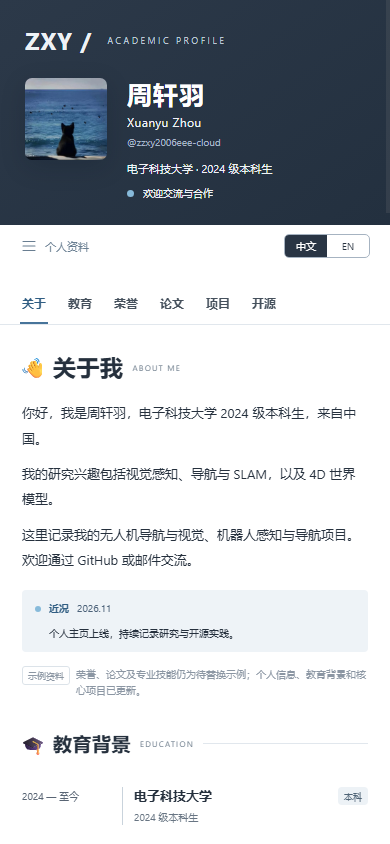
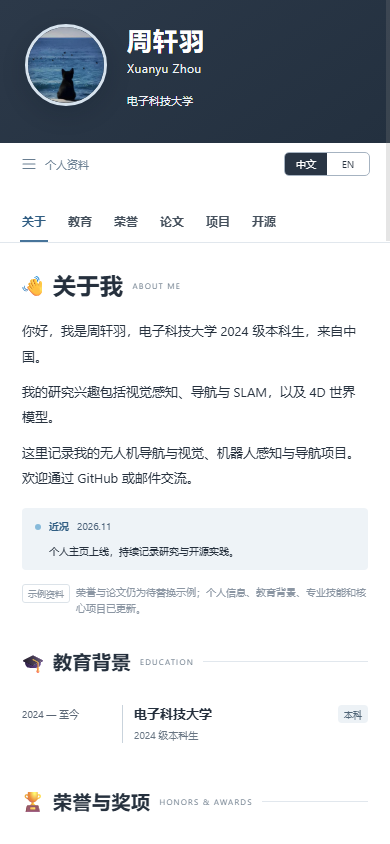
Refine profile sidebar and restore green contribution calendar

diff --git a/src/app.js b/src/app.js
@@ -77,21 +77,19 @@
   }
   function sidebar() {
     const p = data.profile;
-    return `<div class="brand"><strong>${esc(p.initials)} /</strong><span>ACADEMIC PROFILE</span></div><div class="profile-head"><img class="profile-avatar" src="${esc(p.avatar)}" alt="${esc(w("海边黑猫头像", "Black cat looking out at the sea"))}" width="166" height="166"><h2 class="profile-name">${esc(l(p.name))}</h2><div class="romanized">${esc(p.romanized)}</div><div class="handle">${esc(p.handle)}</div><p class="profile-role">${esc(l(p.role))}</p><div class="profile-status"><span class="status-dot"></span>${esc(l(p.status))}</div></div>${sideSection(
+    return `<div class="profile-head"><img class="profile-avatar" src="${esc(p.avatar)}" alt="${esc(w("海边黑猫头像", "Black cat looking out at the sea"))}" width="166" height="166"><h2 class="profile-name">${esc(p.name.zh || l(p.name))}</h2><div class="romanized">${esc(p.romanized)}</div><p class="profile-role">${esc(l(p.institution))}</p></div>${sideSection(
       "基本信息",
       "BASIC INFORMATION",
       `<div class="info-list">${[
         ["cap", l(p.institution)],
-        ["layers", l(p.lab)],
         ["pin", l(p.location)],
-        ["people", p.nationality ? `${w("国籍", "Nationality")}: ${l(p.nationality)}` : ""],
       ]
         .filter((x) => x[1])
         .map(([i, text]) => `<div class="info-row">${icon(i)}<span>${esc(text)}</span></div>`)
         .join(
           "",
-        )}${p.email ? `<div class="info-row">${icon("mail")}<a href="mailto:${esc(p.email)}">${esc(p.email)}</a></div>` : ""}</div><div class="side-actions">${p.cvUrl ? link(p.cvUrl, `${w("下载简历", "Download CV")} ↗`, "side-btn primary") : `<button class="side-btn primary" data-action="print">${w("导出简历", "Export CV")} ↗</button>`}${p.email ? `<a class="side-btn" href="mailto:${esc(p.email)}">${w("联系我", "Contact")} ↗</a>` : link(`https://github.com/${data.githubUsername}`, `${w("联系我", "Contact")} ↗`, "side-btn")}</div><div class="socials">${link(`https://github.com/${data.githubUsername}`, "GitHub ↗")}${p.scholarUrl ? link(p.scholarUrl, "Scholar ↗") : ""}${p.orcidUrl ? link(p.orcidUrl, "ORCID ↗") : ""}</div>`,
-    )}${sideSection("研究方向", "RESEARCH INTERESTS", `<ul class="interests">${data.interests.map((x, i) => `<li>${icon(["layers", "people", "network"][i % 3])}<span>${esc(l(x))}</span></li>`).join("")}</ul>`)}${sideSection("专业技能", "SKILLS", data.skills.map((x, i) => `<div class="skill-group"><div class="skill-title">${icon(i ? "research" : "code")}${esc(l(x.title))}</div><div class="skill-tags">${x.items.map((item) => `<span>${esc(l(item))}</span>`).join("")}</div>`).join(""))}<div class="side-footer"><div>${icon("github")}<span>${w("最近更新", "Updated")} / ${esc(p.updated)}</span></div></div>`;
+        )}${p.email ? `<div class="info-row">${icon("mail")}<a href="mailto:${esc(p.email)}">${esc(p.email)}</a></div>` : ""}<div class="info-row">${icon("github")}${link(`https://github.com/${data.githubUsername}`, esc(data.githubUsername))}</div></div>`,
+    )}${sideSection("研究方向", "RESEARCH INTERESTS", `<ul class="interests">${data.interests.map((x, i) => `<li>${icon(["layers", "people", "network"][i % 3])}<span>${esc(l(x))}</span></li>`).join("")}</ul>`)}${sideSection("专业技能", "SKILLS", data.skills.map((x, i) => `<div class="skill-group">${l(x.title) ? `<div class="skill-title">${icon(i ? "research" : "code")}${esc(l(x.title))}</div>` : ""}<div class="skill-tags">${x.items.map((item) => `<span>${esc(l(item))}</span>`).join("")}</div>`).join(""))}<div class="side-footer"><div>${icon("github")}<span>${w("最近更新", "Updated")} / ${esc(p.updated)}</span></div></div>`;
   }
   function nav() {
     return `<button class="mobile-profile" data-action="profile" aria-expanded="${document.getElementById("sidebar").classList.contains("expanded")}" aria-controls="sidebar">${icon("menu")}${w("个人资料", "Profile")}</button><nav class="nav-links" aria-label="${w("页面导航", "Page navigation")}">${sections.map((s) => `<a href="#${s[0]}" data-section="${s[0]}">${esc(w(s[1], s[2]))}</a>`).join("")}</nav><div class="language-switch" role="group" aria-label="Language">${["zh", "en"].map((code) => `<button data-language="${code}" class="${lang === code ? "active" : ""}" aria-pressed="${lang === code}">${code === "zh" ? "中文" : "EN"}</button>`).join("")}</div>`;

diff --git a/src/styles.css b/src/styles.css
@@ -117,27 +117,12 @@ button {
   flex-direction: column;
   gap: 0;
 }
-.brand {
-  display: flex;
-  align-items: center;
-  gap: 15px;
-  margin-bottom: 34px;
-  white-space: nowrap;
-}
-.brand strong {
-  font-size: 24px;
-  letter-spacing: 1px;
-}
-.brand span {
-  font-size: 9px;
-  letter-spacing: 2.5px;
-  color: #bdc8d5;
-}
 .profile-avatar {
   width: 166px;
   aspect-ratio: 1;
   object-fit: cover;
-  border-radius: 7px;
+  border-radius: 50%;
+  border: 3px solid #d7e3ee;
   box-shadow: 0 7px 24px #07121e2b;
   margin-bottom: 25px;
 }
@@ -158,7 +143,7 @@ button {
   color: #a8b7c8;
 }
 .profile-role {
-  margin: 20px 0 10px;
+  margin: 14px 0 0;
   font-size: 13px;
 }
 .profile-status {
@@ -933,26 +918,26 @@ tbody tr:nth-child(even) {
 .heat-cell {
   padding: 0;
   border-radius: 1px;
-  background: #edf1f5;
+  background: #ebedf0;
   position: relative;
   min-width: 0;
   cursor: default;
 }
 .heat-cell[data-level="1"],
 .legend-cell[data-level="1"] {
-  background: #c5d7e6;
+  background: #9be9a8;
 }
 .heat-cell[data-level="2"],
 .legend-cell[data-level="2"] {
-  background: #91b2cd;
+  background: #40c463;
 }
 .heat-cell[data-level="3"],
 .legend-cell[data-level="3"] {
-  background: #608eaf;
+  background: #30a14e;
 }
 .heat-cell[data-level="4"],
 .legend-cell[data-level="4"] {
-  background: #365f83;
+  background: #216e39;
 }
 .heat-cell.empty {
   visibility: hidden;
@@ -977,7 +962,7 @@ tbody tr:nth-child(even) {
   width: 9px;
   height: 9px;
   border-radius: 2px;
-  background: #edf1f5;
+  background: #ebedf0;
 }
 .legend span:first-child {
   margin-right: 4px;
@@ -1296,7 +1281,7 @@ table {
   }
   .profile-avatar {
     width: 82px;
-    grid-row: 1/6;
+    grid-row: 1/4;
     margin: 0;
   }
   .profile-name {

diff --git a/README.md b/README.md
@@ -60,23 +60,18 @@ node scripts/serve.mjs
 
 | 页面位置 / 想修改的内容 | 对应字段或文件 | 说明 |
 | --- | --- | --- |
-| 左上角 `zZ /` 标识 | `profile.initials` | 简短昵称或姓名缩写 |
 | 头像 | `profile.avatar` + `assets/images/avatar.png` | 同名覆盖图片，或修改图片路径 |
-| 姓名 / 昵称 | `profile.name.zh`、`profile.name.en` | 分别用于中文、英文界面 |
+| 头像下方姓名 | `profile.name.zh` | 侧栏始终展示中文姓名；`profile.name.en` 用于英文页面标题等位置 |
 | 姓名下面一行英文 | `profile.romanized` | 可填写拼音、英文名或个人副标题 |
-| `@用户名` | `profile.handle` | 仅为展示文字，不决定贡献数据来源 |
-| 国籍 | `profile.nationality` | 中英文国籍文字，留空则不显示 |
-| 身份 / 职位 | `profile.role` | 如博士研究生、工程师 |
-| 蓝点旁的交流状态 | `profile.status` | 如“欢迎交流与合作” |
-| 学校、实验室、所在地 | `profile.institution`、`profile.lab`、`profile.location` | 侧栏基本信息 |
-| 邮箱与联系按钮 | `profile.email` | 只填邮箱地址，不加 `mailto:` |
-| 简历下载 | `profile.cvUrl` | PDF 路径或完整网址 |
-| Scholar / ORCID | `profile.scholarUrl`、`profile.orcidUrl` | 留空则不显示对应链接 |
+| 姓名下方学校、基本信息中的学校 | `profile.institution` | 两处共用同一双语字段 |
+| 基本信息中的国家 | `profile.location` | 当前为中国 / China |
+| 基本信息中的邮箱 | `profile.email` | 只填邮箱地址，不加 `mailto:` |
+| 基本信息中的 GitHub 账号名 | `githubUsername` | 同时决定主页链接与贡献数据来源 |
 | 侧栏最近更新日期 | `profile.updated` | 手动维护，例如 `2026-11-09` |
 | 右侧 About Me 正文 | `about[]` | 每一项对应一个段落 |
 | About Me 下方近况 | `news.date`、`news.text` | 日期与一句话近况 |
 | 研究方向 | `interests[]` | 按列表顺序展示 |
-| 专业技能 | `skills[].title`、`skills[].items` | 技能分组标题及标签 |
+| 专业技能 | `skills[].title`、`skills[].items` | 按顺序展示标签；`title` 留空时隐藏分组标题 |
 | 教育背景 | `education[]` | 起止时间、学校、学位、专业 |
 | 荣誉与奖项 | `awards[]` | 奖项、级别 / 授予单位、年份 |
 | 论文成果 | `publications[]` | 标题、作者、发表状态、PDF、代码和引用 |
@@ -102,7 +97,7 @@ node scripts/serve.mjs
 5. 确认示例履历已全部替换或删除，再将顶层 `"demo": true` 改为 `"demo": false`，并更新 `profile.updated`。
 6. 按[修改后的预览与发布](#修改后的预览与发布)检查并推送。
 
-当前个人信息已更新为周轩羽（Xuanyu Zhou），电子科技大学 2024 级本科生，邮箱为 `1285027656@qq.com`。研究方向为视觉感知、导航与 SLAM、4D 世界模型；头像仍是用户提供的海边黑猫。教育背景与两个核心项目已更新，项目分别链接到 `drone-nav-and-vision` 和 `robot_challenge`，介绍依据仓库 README 编写。荣誉、论文与专业技能尚未替换，仍明确标为示例；GitHub 区域使用真实账号数据。
+当前个人信息已更新为周轩羽（Xuanyu Zhou），电子科技大学 2024 级本科生，邮箱为 `1285027656@qq.com`。研究方向为视觉感知、导航与 SLAM、4D 世界模型；头像仍是用户提供的海边黑猫。教育背景与两个核心项目已更新，项目分别链接到 `drone-nav-and-vision` 和 `robot_challenge`，介绍依据仓库 README 编写。专业技能为 Python、PyTorch、C++；荣誉与论文尚未替换，仍明确标为示例；GitHub 区域使用真实账号数据。
 
 ### 配置文件的基本写法
 
@@ -134,10 +129,10 @@ JSON 使用英文双引号；相邻条目之间用英文逗号分隔，最后一
 
 这是部分字段示例，只替换 `profile` 中对应的字段，保留其他字段。
 
-- **更换头像**：直接用新图片覆盖 `assets/images/avatar.png`。如果换成 JPG，例如 `assets/images/my-avatar.jpg`，同时修改 `profile.avatar`。建议使用正方形图片，页面会按方形裁切显示。头像替代文本在 `src/app.js` 的 `sidebar()` 中，目前描述的是黑猫图片；更换内容后可一并修改。
-- **上传简历**：自行创建 `assets/files/`，放入 `cv.pdf`，然后填写 `profile.cvUrl`。留空时按钮调用浏览器打印，可“另存为 PDF”。
-- **邮箱与联系按钮**：填写 `profile.email` 后，邮箱和联系按钮会打开邮件应用；留空时联系按钮跳转至你的 GitHub 主页。
-- **学术链接**：`scholarUrl`、`orcidUrl` 使用完整 `https://...` 地址；留空时对应入口隐藏。
+- **更换头像**：直接用新图片覆盖 `assets/images/avatar.png`。如果换成 JPG，例如 `assets/images/my-avatar.jpg`，同时修改 `profile.avatar`。建议使用正方形图片，页面会按圆形框裁切显示。头像替代文本在 `src/app.js` 的 `sidebar()` 中，目前描述的是黑猫图片；更换内容后可一并修改。
+- **侧栏顺序**：最上方直接显示头像，下方依次为中文姓名、英文姓名、学校；基本信息依次为学校、国家、邮箱、GitHub 账号名，之后是研究方向和专业技能。
+- **邮箱**：填写 `profile.email` 后，点击邮箱会打开邮件应用。
+- **保留字段**：`initials`、`handle`、`role`、`status`、`lab`、`nationality`、`cvUrl`、`scholarUrl`、`orcidUrl` 暂不在精简侧栏显示。需要恢复额外入口时修改 `src/app.js` 的 `sidebar()`；仍可用浏览器打印功能导出 PDF。
 - **日期**：`profile.updated` 是你维护资料的日期，不会自动改变；热力图下方的同步时间由程序单独更新。
 
 ### About Me、近况、研究方向与技能
@@ -166,8 +161,8 @@ JSON 使用英文双引号；相邻条目之间用英文逗号分隔，最后一
 
 ```json
 {
-  "title": { "zh": "编程与工程", "en": "Programming & engineering" },
-  "items": ["Python", "TypeScript", "PyTorch"]
+  "title": "",
+  "items": ["Python", "PyTorch", "C++"]
 }
 ```
 
@@ -254,7 +249,7 @@ JSON 使用英文双引号；相邻条目之间用英文逗号分隔，最后一
 
 ### GitHub 贡献与热力图
 
-`githubUsername` 决定贡献数据来源、侧栏 GitHub 链接和“全部仓库”入口。`profile.handle` 只是展示文字，改它不会更换数据账号。
+`githubUsername` 决定贡献数据来源、侧栏 GitHub 账号名与链接和“全部仓库”入口。`profile.handle` 是保留字段，当前不显示。
 
 贡献表统计公开、已合并、且仓库拥有者不是当前账号的 PR。没有符合条件的 PR 时会显示空状态，不需要手工添加假的统计数字。表格默认展示最近有合并记录的 6 个仓库；每个仓库最多展示 2 条 PR 标题和 3 个合并链接，完整记录可通过详情或 GitHub 搜索入口查看。
 
@@ -271,7 +266,7 @@ JSON 使用英文双引号；相邻条目之间用英文逗号分隔，最后一
 
 键名必须与 GitHub 的 `owner/repository` 完全对应。该配置只覆盖**已查询到的仓库**的介绍，不会新增贡献行、修改 PR 数量或伪造合并记录。
 
-- **热力图数据**：`scripts/sync-github.mjs` 从 `user(login: githubUsername).contributionsCollection` 获取真实贡献日历。默认使用 GitHub 个人主页相同的近一年查询口径，另外提供今年和去年；选择器显示“近一年 / 今年 / 去年”。仅将颜色映射为网站的蓝灰色，日期和贡献数量来自 GitHub。
+- **热力图数据**：`scripts/sync-github.mjs` 从 `user(login: githubUsername).contributionsCollection` 获取真实贡献日历。默认使用 GitHub 个人主页相同的近一年查询口径，另外提供今年和去年；选择器显示“近一年”及具体年份。日历与图例使用 GitHub 风格的绿色梯度，日期和贡献数量来自 GitHub。
 - **同步时间**：在 `.github/workflows/pages.yml` 中修改 `schedule` 下的 Cron。当前 `17 2 * * *` 为 UTC 02:17，即北京时间每天 10:17。它不是实时推送，GitHub 调度也可能延迟。
 - **立即更新**：在仓库 Actions 中选择 `Sync contributions and deploy homepage`，点击 `Run workflow`，选择 `main` 并运行。无需为了刷新数据修改个人介绍。
 - **改统计规则或增加历史年份**：编辑 `scripts/sync-github.mjs`。当前范围列表是 `["last-year", year, year - 1]`，其中 `last-year` 使用 GitHub 默认的近一年范围。
@@ -346,7 +341,7 @@ git push origin main
 | 无法隐藏某个空栏目 | 空列表只清空条目；完整隐藏需要同时修改 `sections` 和 `render()` |
 | 有提交活动，但上游 PR 表为空 | 热力图和上游合并 PR 口径不同；自己仓库的提交不等于贡献给其他仓库的已合并 PR |
 | 热力图没有马上更新 | 查看最后同步时间，可手动运行工作流；GitHub 自身统计也可能延迟 |
-| 更换 GitHub 账号后校验失败 | 更新 `githubUsername` 后重新同步快照；`profile.handle` 和顶层 `repository` 按需要分别修改 |
+| 更换 GitHub 账号后校验失败 | 更新 `githubUsername` 后重新同步快照；顶层 `repository` 按需要修改 |
 | JSON 无法解析 | 检查英文双引号、逗号、是否包含注释；运行 `node scripts/check.mjs` 查看错误 |
 | 直接双击 `index.html` 内容不出现 | 使用构建和本地预览命令；源目录的运行数据文件由构建生成到 `dist/data/` |
 
@@ -386,7 +381,7 @@ This is an original, dependency-free academic homepage inspired by the content s
 
 Run `node scripts/build.mjs` and `node scripts/serve.mjs` with Node.js 20+. Edit bilingual content in `data/site.json`, and put images in `assets/images/`. Desktop columns scroll independently. Mobile uses a single-column layout with expandable profile details. Language preference persists locally.
 
-The profile belongs to Xuanyu Zhou, a UESTC undergraduate who entered in 2024. Education and the two repository-linked projects have been updated; honors, papers, and skills remain labeled placeholders. Replace those before disabling `demo`. Project descriptions are based on the linked repositories, without unverified personal-role claims. The GitHub section uses the configured account's real contribution calendar, defaulting to the rolling-year view used by GitHub profiles, with current-year and previous-year options. Upstream merged PRs are listed separately. GitHub Actions refreshes the data and deploys on pushes, manual runs, and a daily schedule. Tokens are never included in the public website.
+The profile belongs to Xuanyu Zhou, a UESTC undergraduate who entered in 2024. Education and the two repository-linked projects have been updated; skills are Python, PyTorch, and C++; honors and papers remain labeled placeholders. Replace those before disabling `demo`. Project descriptions are based on the linked repositories, without unverified personal-role claims. The GitHub section uses the configured account's real contribution calendar, defaulting to the rolling-year view used by GitHub profiles, with current-year and previous-year options. Upstream merged PRs are listed separately. GitHub Actions refreshes the data and deploys on pushes, manual runs, and a daily schedule. Tokens are never included in the public website.
 
 Enable **GitHub Actions** as the repository's Pages source. A project repository named `academichomepage.github.io` is served at `https://USERNAME.github.io/academichomepage.github.io/`.
 
